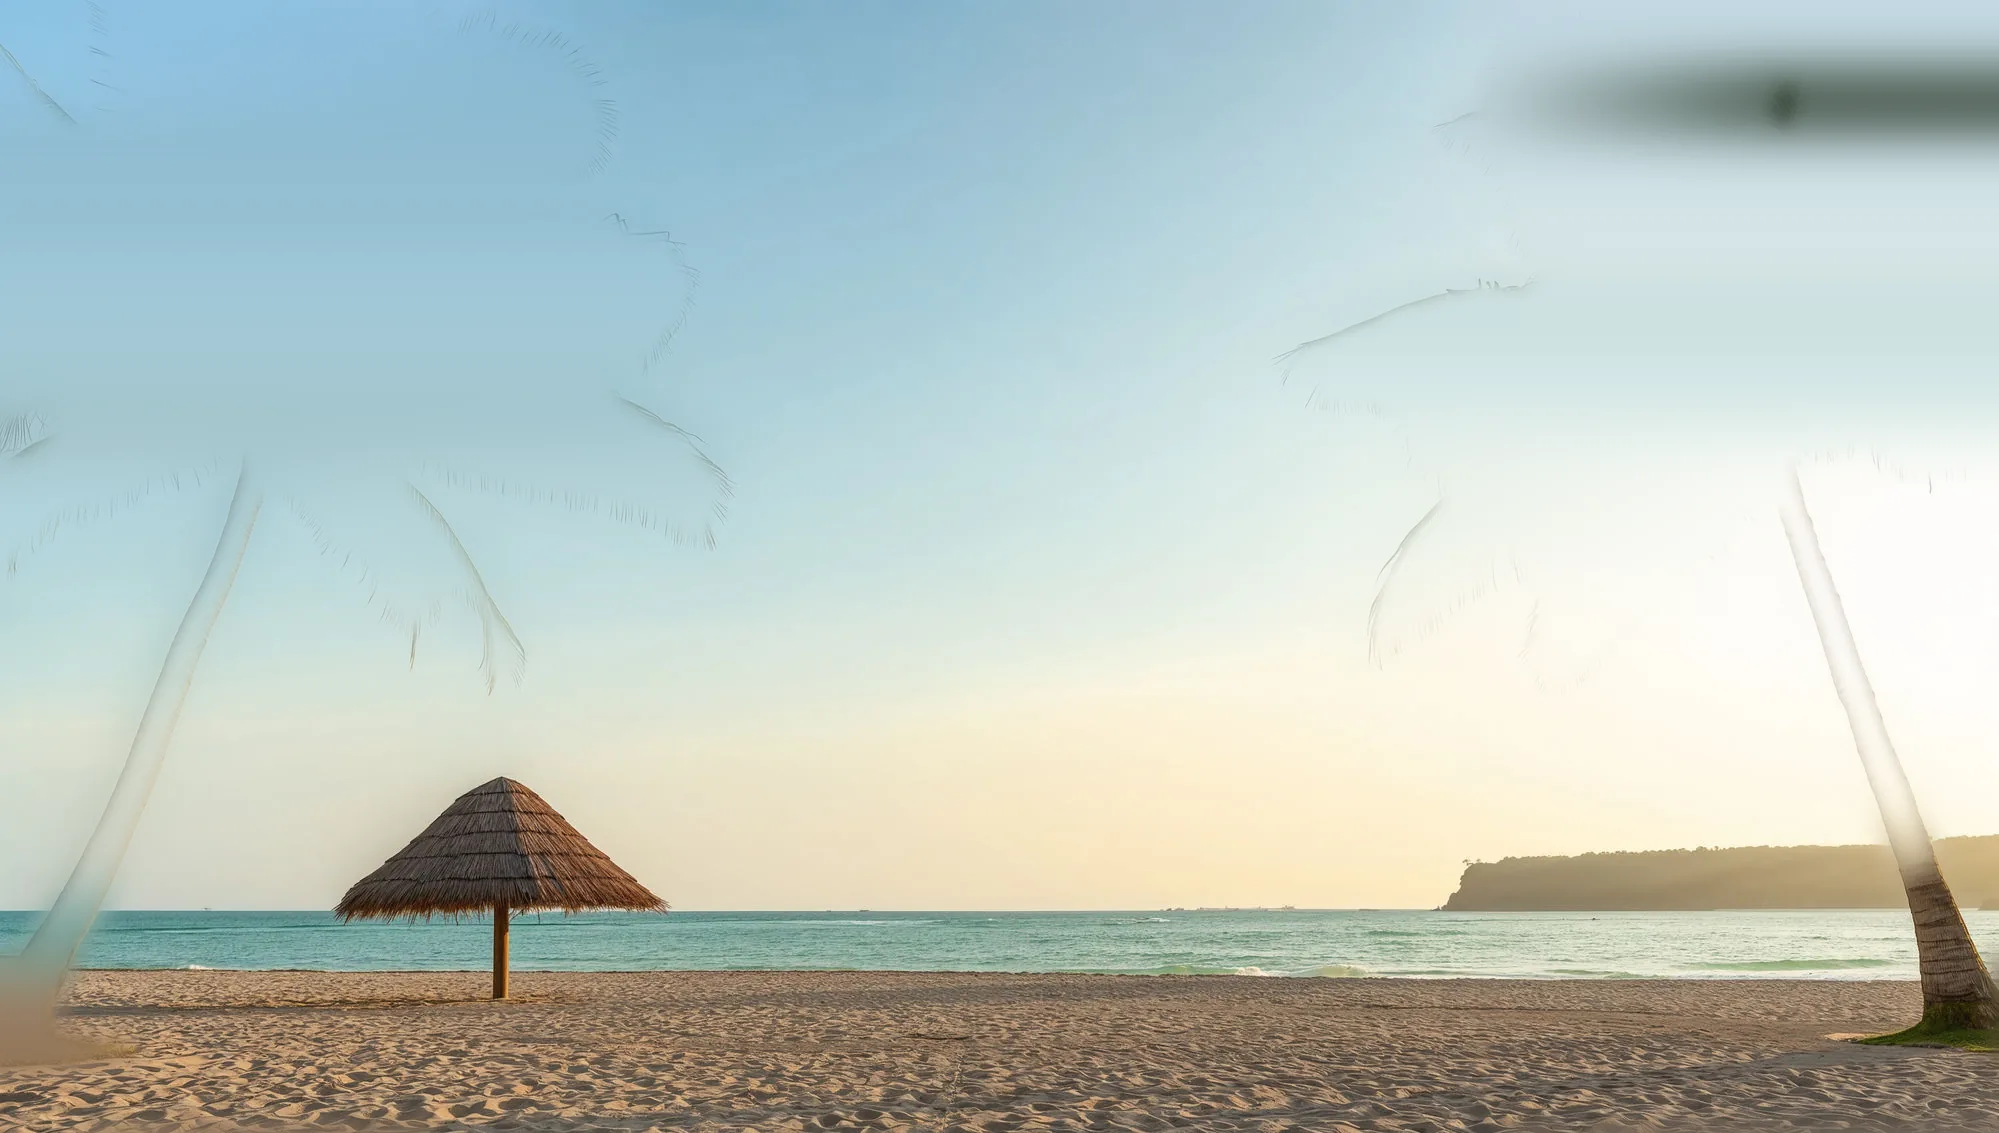
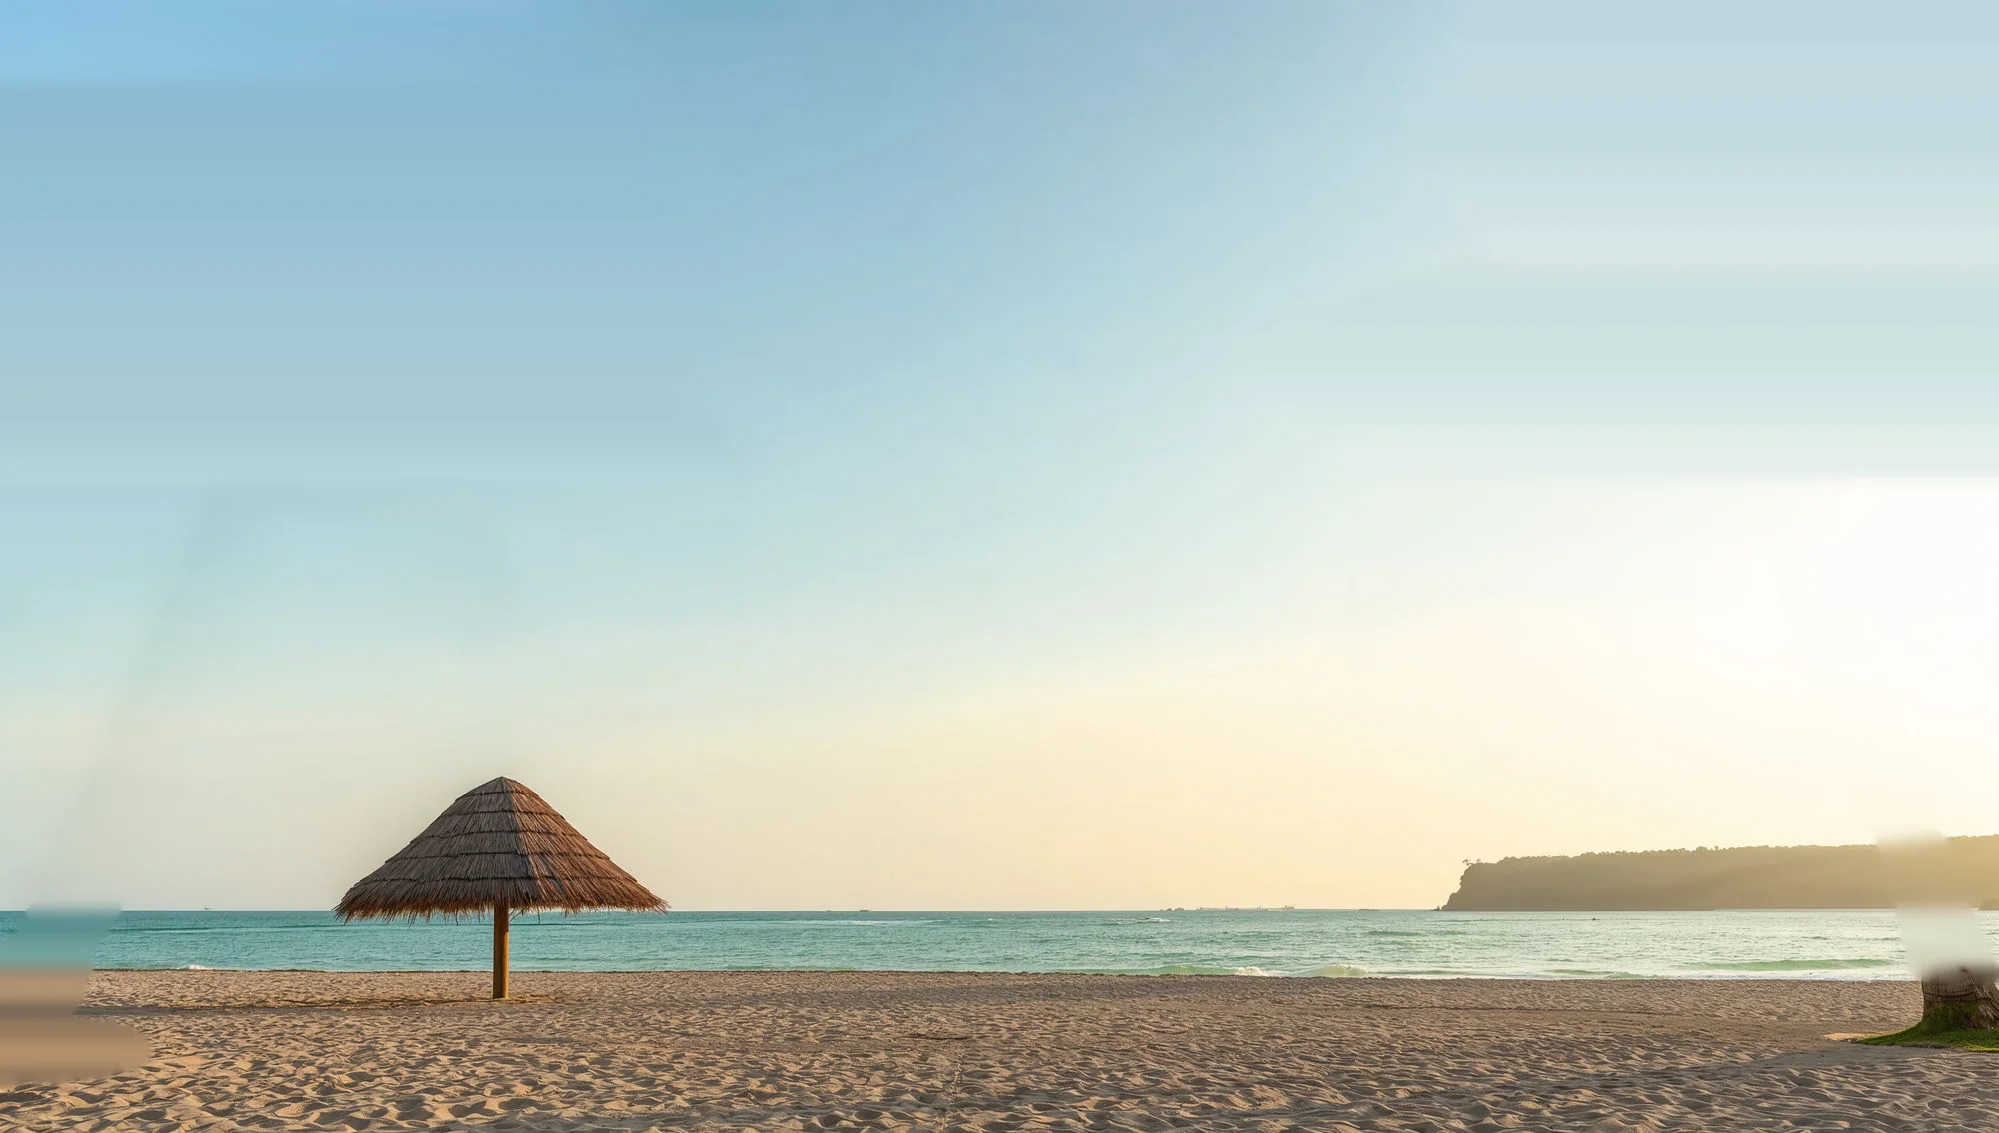
Hero cutout: clean the blurry palm edges + stronger parallax
Two fixes from preview feedback:
- Blurry edges: the background plate carried faint blurred palm ghosts
  and the rembg cutout had a floating semi-transparent haze, both showing
  through the frond gaps. Rebuilt the plate palm-free with a generous mask
  + horizontal fill + vertical-only smoothing (no ghost, no streak), and
  stripped the cutout's floating haze (keep alpha only near solid fronds,
  drop small detached components). Sky behind the palms now reads clean.
- Stronger drift: foreground palms now travel more on scroll (fg -18,
  inner -8, bg +8; layer scale 1.2) so the parallax shift is clearly
  visible, per feedback.

Same .hero--cutout scoping; subpages untouched.

diff --git a/site.js b/site.js
@@ -87,9 +87,9 @@
     var heroTl = gsap.timeline({
       scrollTrigger: { trigger: heroCut, start: "top top", end: "bottom top", scrub: true }
     });
-    if (hBg) heroTl.fromTo(hBg, { yPercent: 0 }, { yPercent: 6, ease: "none" }, 0);
-    if (hInner) heroTl.fromTo(hInner, { yPercent: 0 }, { yPercent: -7, ease: "none" }, 0);
-    if (hFg) heroTl.fromTo(hFg, { yPercent: 0 }, { yPercent: -13, ease: "none" }, 0);
+    if (hBg) heroTl.fromTo(hBg, { yPercent: 0 }, { yPercent: 8, ease: "none" }, 0);
+    if (hInner) heroTl.fromTo(hInner, { yPercent: 0 }, { yPercent: -8, ease: "none" }, 0);
+    if (hFg) heroTl.fromTo(hFg, { yPercent: 0 }, { yPercent: -18, ease: "none" }, 0);
   }
 
   // ---------- clip-path image reveal ----------

diff --git a/site.css b/site.css
@@ -70,9 +70,9 @@ html.lenis,html.lenis body{height:auto}.lenis.lenis-smooth{scroll-behavior:auto!
 .hero__layer{position:absolute;inset:0;will-change:transform}
 .hero__layer img{width:100%;height:100%;object-fit:cover;display:block}
 .hero--cutout .hero__bg{z-index:1}
-.hero--cutout .hero__bg img{transform:scale(1.16)}
+.hero--cutout .hero__bg img{transform:scale(1.2)}
 .hero--cutout .hero__fg{z-index:4;pointer-events:none}
-.hero--cutout .hero__fg img{transform:scale(1.16)}
+.hero--cutout .hero__fg img{transform:scale(1.2)}
 /* light atmosphere only — the centre sky stays bright so the dark wordmark reads. soft corner lift + faint top shade, no centre darkening */
 .hero--cutout .hero__scrim{z-index:2;background:radial-gradient(125% 80% at 50% 34%,rgba(255,255,255,.20) 0%,rgba(255,255,255,0) 46%),linear-gradient(180deg,rgba(22,30,36,.14) 0%,rgba(22,30,36,0) 22%,rgba(22,30,36,0) 100%)}
 /* wordmark group sits in the open upper-centre sky — biased up off the geometric centre via the large padding-bottom */